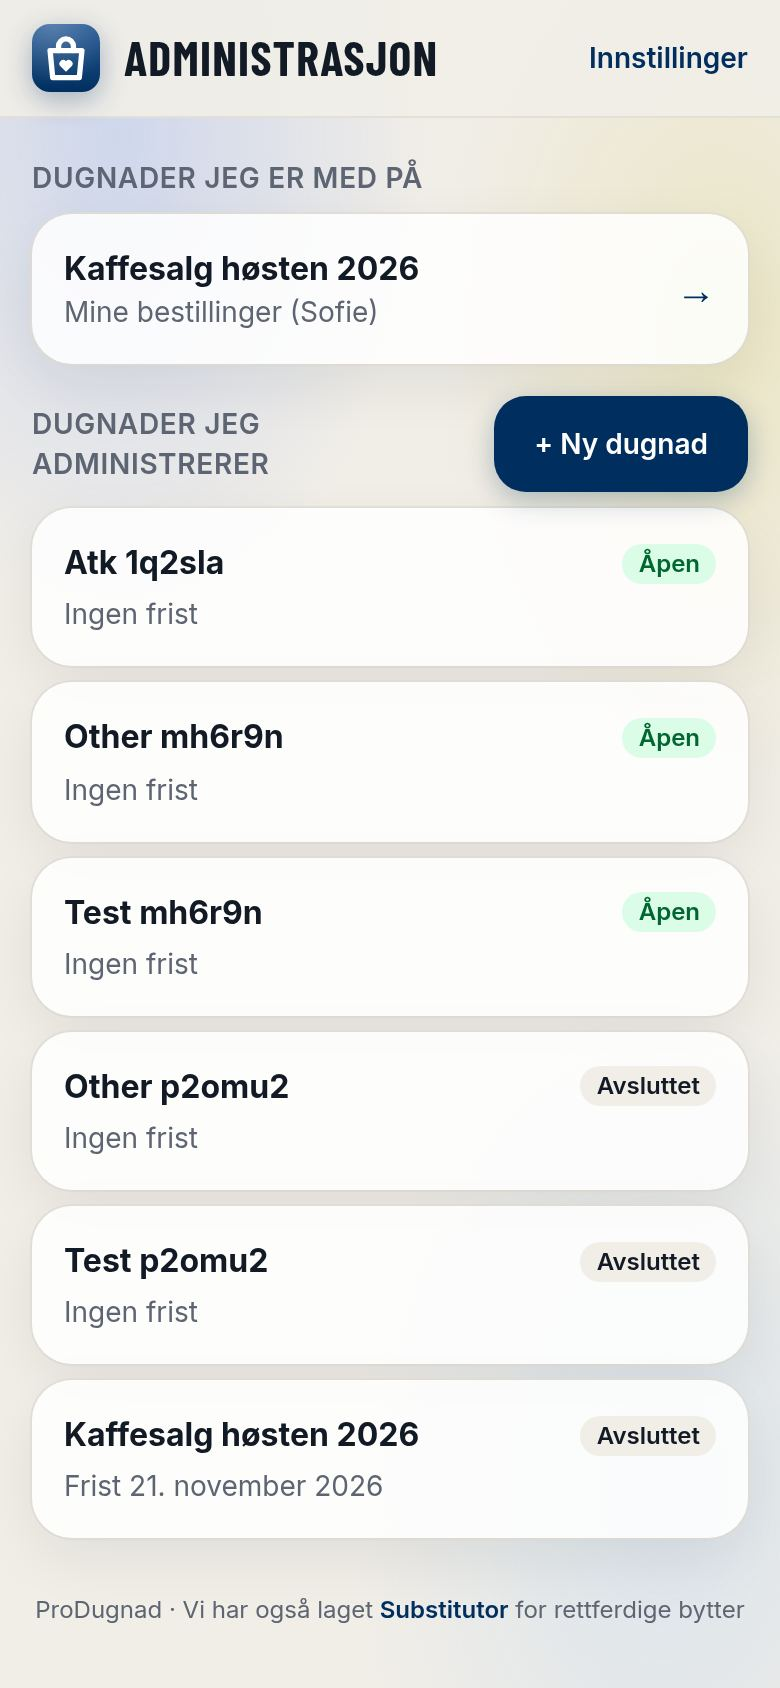
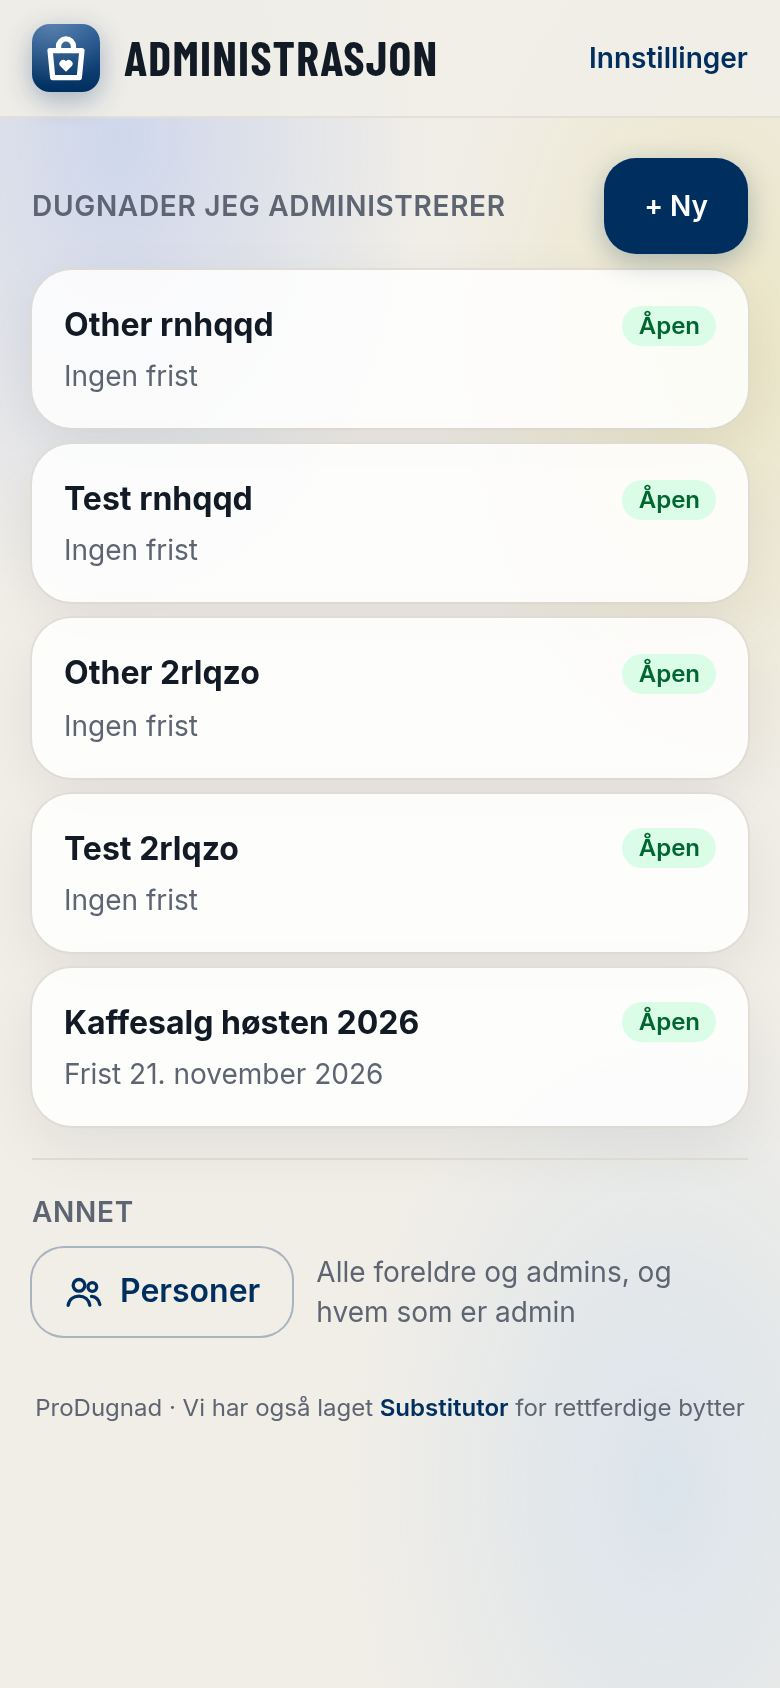
Admin start page: Personer as an outlined button in its own section, not a campaign-like card

Changed region(s): [[0.0308, 0.0924, 0.9846, 0.8009], [0.0615, 0.7393, 0.9846, 0.955], [0.5231, 0.9242, 0.5846, 0.955]]

diff --git a/src/pages/admin/AdminHome.tsx b/src/pages/admin/AdminHome.tsx
@@ -71,15 +71,24 @@ export default function AdminHome() {
           ))
         )}
         </section>
-        <Link to="/admin/personer" className="block">
-          <Card className="flex items-center justify-between gap-2">
-            <div>
-              <div className="font-bold">Personer</div>
-              <div className="text-sm text-muted">Alle foreldre og admins, og hvem som er admin</div>
-            </div>
-            <span className="text-xl text-brand">→</span>
-          </Card>
-        </Link>
+        <section className="space-y-2 border-t border-line pt-4">
+          <h2 className="text-sm font-semibold uppercase tracking-wide text-muted">Annet</h2>
+          <div className="flex items-center gap-3">
+            <Link
+              to="/admin/personer"
+              className="inline-flex min-h-11 shrink-0 items-center gap-2 rounded-2xl px-4 font-semibold text-brand ring-1 ring-brand/30"
+            >
+              <svg viewBox="0 0 24 24" className="h-5 w-5" fill="none" stroke="currentColor" strokeWidth="2" strokeLinecap="round" aria-hidden="true">
+                <circle cx="9" cy="8" r="3.5" />
+                <path d="M2.5 20c.6-3.6 3.2-5.5 6.5-5.5s5.9 1.9 6.5 5.5" />
+                <circle cx="17" cy="9" r="2.6" />
+                <path d="M16.5 14.6c2.7.2 4.4 1.9 5 4.9" />
+              </svg>
+              Personer
+            </Link>
+            <p className="text-sm text-muted">Alle foreldre og admins, og hvem som er admin</p>
+          </div>
+        </section>
       </Page>
     </>
   )
